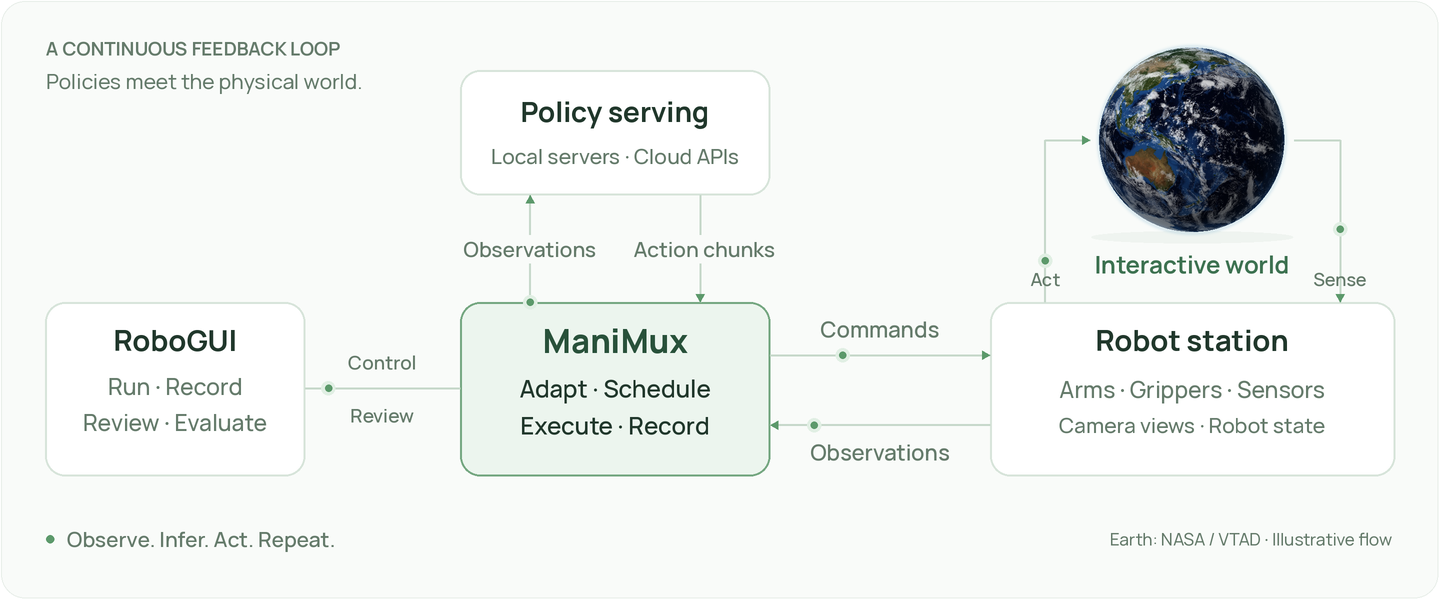
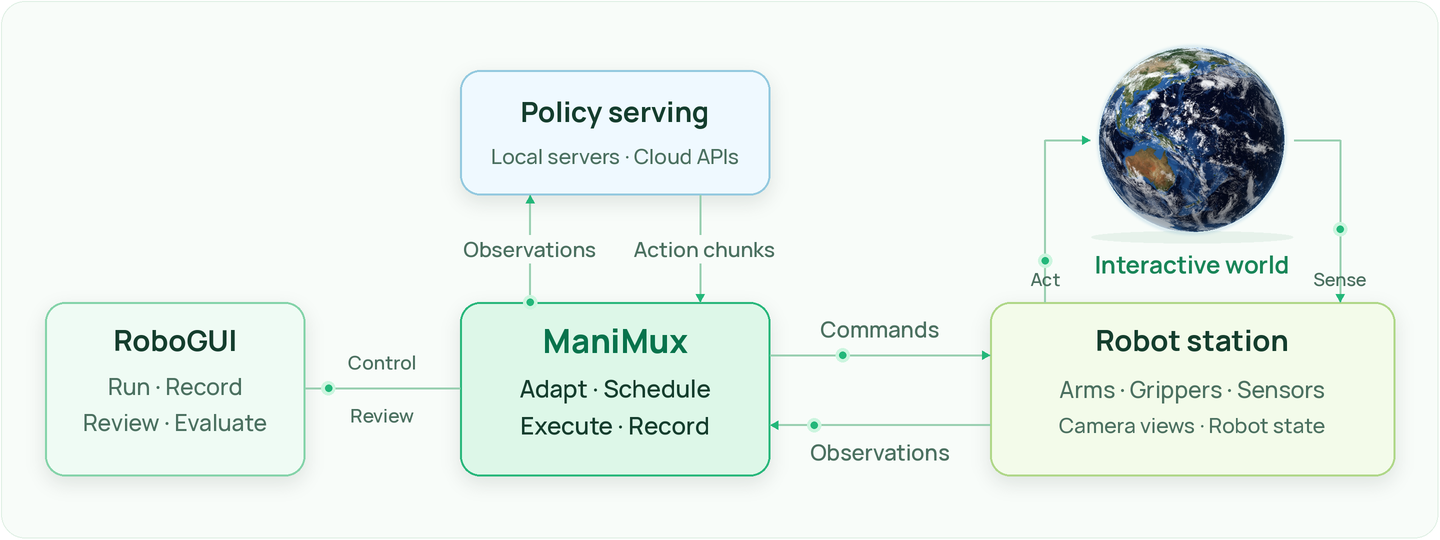
docs: brighten architecture animation and simplify captions

diff --git a/scripts/media/render-readme-architecture.py b/scripts/media/render-readme-architecture.py
@@ -15,18 +15,19 @@ import math
 import io
 import json
 import struct
+from functools import lru_cache
 
 import numpy as np
 from pathlib import Path
 
-from PIL import Image, ImageDraw, ImageFont
+from PIL import Image, ImageDraw, ImageFilter, ImageFont
 
 ROOT = Path(__file__).resolve().parents[2]
-W, H, SCALE = 1440, 600, 2
-INK = '#20372B'
-MUTED = '#657B6B'
-GREEN = '#5C996B'
-EDGE = '#D7E4DA'
+W, H, SCALE = 1440, 540, 2
+INK = '#143D2D'
+MUTED = '#4B7060'
+GREEN = '#23B77A'
+EDGE = '#AEDCC3'
 FONT = ROOT / 'website/assets/Manrope.ttf'
 FONTS = {}
 
@@ -112,9 +113,10 @@ class EarthMesh:
             tex=(self.texture[iy,ix]*(1-fx)+self.texture[iy,ix1]*fx)*(1-fy)
             tex+=(self.texture[iy1,ix]*(1-fx)+self.texture[iy1,ix1]*fx)*fy
             normal=w@normals[face];normal/=np.linalg.norm(normal,axis=1)[:,None]
-            shade=.40+.60*np.clip(normal@light,0,1)
+            shade=.58+.58*np.clip(normal@light,0,1)
             rim=(1-np.maximum(normal[:,2],0))**3
-            rgb=tex*shade[:,None]+rim[:,None]*np.array([15,35,55])
+            rgb=tex*shade[:,None]+rim[:,None]*np.array([20,45,65])
+            rgb=255*np.power(np.clip(rgb/255,0,1),.84)
             pixels=color[y0:y1+1,x0:x1+1]
             pixels[mask,:3]=np.clip(rgb,0,255).astype(np.uint8); pixels[mask,3]=255
             region[mask]=z[mask]
@@ -122,6 +124,17 @@ class EarthMesh:
 
 
 EARTH = None
+
+
+@lru_cache(maxsize=8)
+def card_shadow(width, height, radius):
+    margin = 28 * SCALE
+    tile = Image.new('RGBA', (width*SCALE+margin*2, height*SCALE+margin*2), (0, 0, 0, 0))
+    draw = ImageDraw.Draw(tile)
+    draw.rounded_rectangle((margin, margin+7*SCALE, margin+width*SCALE,
+                            margin+height*SCALE+7*SCALE),
+                           radius=radius*SCALE, fill=(30, 62, 41, 29))
+    return tile.filter(ImageFilter.GaussianBlur(9*SCALE))
 
 
 def render(phase):
@@ -142,12 +155,16 @@ def render(phase):
         d.text((round(x*SCALE), round(y*SCALE)), value, font=font(size, weight),
                fill=color, anchor=anchor)
 
-    def box(bounds, fill='#FFFFFF', outline=EDGE, radius=20, width=2):
+    def box(bounds, fill='#FFFFFF', outline=EDGE, radius=20, width=2, shadow=False):
+        if shadow:
+            x0, y0, x1, y1 = bounds
+            tile = card_shadow(x1-x0, y1-y0, radius)
+            im.paste(tile, ((x0-28)*SCALE, (y0-28)*SCALE), tile)
         d.rounded_rectangle(tuple(round(v*SCALE) for v in bounds), radius=radius*SCALE,
                             fill=fill, outline=outline, width=width*SCALE)
 
     def path(points, phase_offset=0, color=GREEN, arrows=True, active=True):
-        line(points, '#C6D8CA', 2)
+        line(points, '#99CFB1', 2)
         if arrows:
             x, y = points[-1]; px, py = points[-2]
             ang = math.atan2(y-py, x-px)
@@ -160,25 +177,23 @@ def render(phase):
             for (a,b),length in zip(zip(points,points[1:]),lengths):
                 if distance<=length:
                     f=distance/length; x=a[0]+f*(b[0]-a[0]); y=a[1]+f*(b[1]-a[1])
-                    ellipse((x-7,y-7,x+7,y+7),'#E1EFE4')
+                    ellipse((x-7,y-7,x+7,y+7),'#CCF5DF')
                     ellipse((x-3.5,y-3.5,x+3.5,y+3.5),color)
                     break
                 distance-=length
 
-    box((1,1,W-2,H-2),'#F9FBF9','#E8EEE9',24,1)
-    text(46,48,'A CONTINUOUS FEEDBACK LOOP',19,650,MUTED,'lm')
-    text(46,81,'Policies meet the physical world.',21,450,MUTED,'lm')
+    box((1,1,W-2,H-2),'#F8FCF9','#DFEFE4',24,1)
 
     # Control interface, runtime, policy service and physical robot station.
-    box((45,302,305,476))
-    box((460,302,770,476),'#ECF5EE','#75A781',20,2)
-    box((460,70,770,195))
-    box((990,302,1395,476))
+    box((45,302,305,476),'#EFFBF4','#84D3A9',shadow=True)
+    box((460,302,770,476),'#DDF7E8','#28B77B',20,2,shadow=True)
+    box((460,70,770,195),'#EFF9FF','#93C9DF',shadow=True)
+    box((990,302,1395,476),'#F3FBEA','#AFD788',shadow=True)
 
     text(175,340,'RoboGUI',29,700)
     text(175,386,'Run · Record',23,500,MUTED)
     text(175,422,'Review · Evaluate',23,500,MUTED)
-    text(615,340,'ManiMux',33,750,'#28513A')
+    text(615,340,'ManiMux',33,750,'#08734C')
     text(615,388,'Adapt · Schedule',24,550)
     text(615,425,'Execute · Record',24,550)
     text(615,111,'Policy serving',28,700)
@@ -193,8 +208,8 @@ def render(phase):
     path([(530,302),(530,195)],.0)
     path([(700,195),(700,302)],.5)
     # Label surfaces ensure the connectors do not run through text.
-    box((437,235,624,263),'#F9FBF9',None,5,1)
-    box((617,235,790,263),'#F9FBF9',None,5,1)
+    box((437,235,624,263),'#F8FCF9',None,5,1)
+    box((617,235,790,263),'#F8FCF9',None,5,1)
     text(530,249,'Observations',21,550,MUTED)
     text(704,249,'Action chunks',21,550,MUTED)
     path([(770,355),(990,355)],.33)
@@ -207,19 +222,15 @@ def render(phase):
     if EARTH is None:
         EARTH = EarthMesh()
     cx, cy = 1192, 140
-    ellipse((cx-101,cy+91,cx+101,cy+103),'#EFF4F0')
+    ellipse((cx-101,cy+91,cx+101,cy+103),'#E7F2EB')
     globe = EARTH.render(phase)
     im.paste(globe, (round(cx*SCALE-globe.width/2), round(cy*SCALE-globe.height/2)), globe)
-    text(cx,264,'Interactive world',24,650,'#3C7150')
+    text(cx,264,'Interactive world',24,650,'#188558')
     path([(1045,302),(1045,140),(1090,140)],.2)
     path([(1294,140),(1340,140),(1340,302)],.65)
     text(1045,279,'Act',18,550,MUTED)
     text(1340,279,'Sense',18,550,MUTED)
 
-    # A restrained footer identifies illustration rather than live telemetry.
-    ellipse((46,535,54,543),GREEN)
-    text(67,539,'Observe. Infer. Act. Repeat.',21,550,MUTED,'lm')
-    text(1392,539,'Earth: NASA / VTAD · Illustrative flow',17,450,MUTED,'rm')
     return im.resize((W,H),Image.Resampling.LANCZOS)
 
 

diff --git a/assets/architecture/README.md b/assets/architecture/README.md
@@ -4,7 +4,7 @@ A schematic of RoboGUI, the ManiMux runtime, policy serving and a robot station
 interacting with a changing physical world. The rotating sphere and moving dots
 are illustrative, not live telemetry or a measured timing diagram.
 
-- `manimux-architecture.gif`: 1440 × 600, 120 frames, 9.6-second seamless loop.
+- `manimux-architecture.gif`: 1440 × 540, 120 frames, 9.6-second seamless loop.
 - `manimux-architecture.png`: static alternative linked from the project README.
 - Generator: [`render-readme-architecture.py`](../../scripts/media/render-readme-architecture.py).
 
